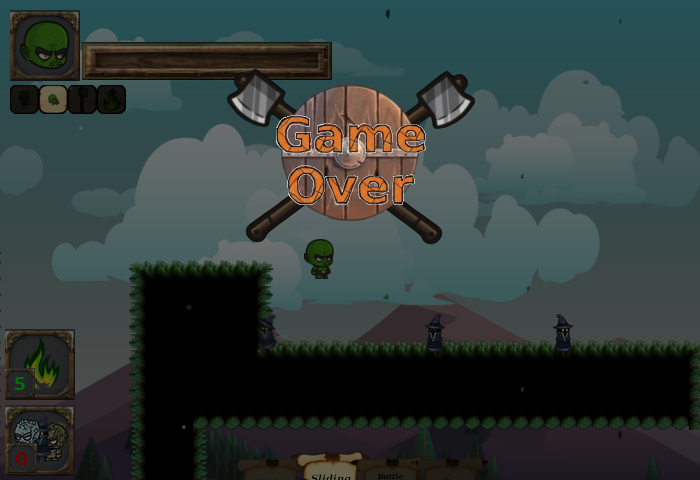
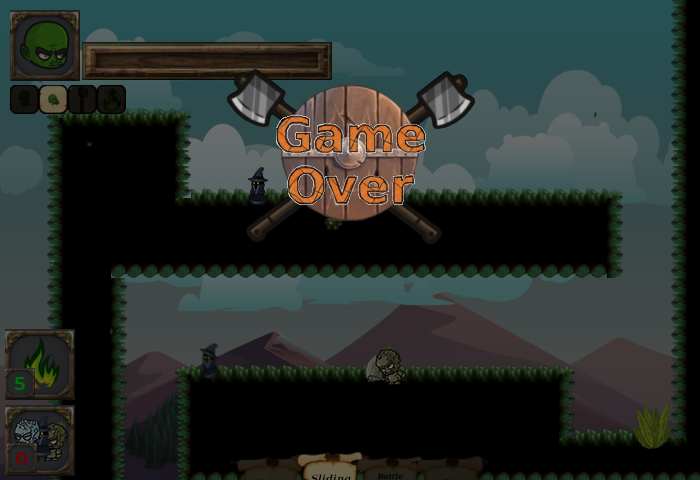
Ajusting the simple Ai.

diff --git a/data/gameplay/__init__.py b/data/gameplay/__init__.py
@@ -68,7 +68,7 @@ class GamePlay(object):
         tile_rects = self.platform.settingPlataform(self.scroll)
         self.scroll, self.player_rect,self.fireArray, self.enimyCollision, self.enimyType, self.fireEnimyColision, self.fireCollsionPos, self.playerOnAttack = self.player.settingPlayer(tile_rects, self.scroll, self.allEnimysRectsAndTypes, self.inUse)
         
-        if ((self.playerOnAttack[0])and(self.count >= 10)):
+        if ((self.playerOnAttack[0])and(self.count >= 10)and(self.inUse == "greenfire"  or self.inUse == "bluefire")):
             self.firing = True
             self.count = 0
         else:
@@ -131,23 +131,25 @@ class GamePlay(object):
         return painelState, self.player_rect, self.qtlife, self.enimysKilled, self.greenFire, self.blueFire
     
     def chekingSongs(self):
-        if self.playerOnAttack[0] and self.inUse == "slashing" and self.soundTimer >= 10:
+        if self.playerOnAttack[0] and self.inUse == "slashing" and self.soundTimer >= 20:
+            self.soundTimer = 0
             self.sounds.golemSliding()
-        elif self.playerOnAttack[0] and self.inUse == "battleax" and self.soundTimer >= 10:
+        elif self.playerOnAttack[0] and self.inUse == "battleax" and self.soundTimer >= 20:
+            self.soundTimer = 0
             self.sounds.golemSlach()
         elif self.playerOnAttack[0] and self.inUse == "kicking" and self.soundTimer >= 10:
+            self.soundTimer = 0
             self.sounds.golemKicking()
         elif self.firing:
             self.sounds.golemstartFire()
-            self.firing = False
         elif self.enimyCollision:
             self.sounds.golemHurt()
         elif(self.qtlife <= 40):
             self.sounds.golemTiredOut()
         else:
             self.sounds.envirementOne()
-            # self.sounds.envirementOne()
         self.soundTimer += 1
+
     def controllingThePlayerLife(self):
         if (self.enimyCollision and self.playerOnAttack[0] == False):
             self.headUpDisplay.updatingPlayerLife(self.enimyType)

diff --git a/data/gameplay/enimy/simpleAI/__init__.py b/data/gameplay/enimy/simpleAI/__init__.py
@@ -1,7 +1,7 @@
 import random
 
 class SimpleEnimysAI:
-    def __init__(self, screen, patrolingRadius,attackRadius, position):
+    def __init__(self, patrolingRadius,attackRadius, position):
         # self.allEnimys = ['blue wizard', 'fire golem', 'stone golem', 'ice golem', 'blue robots', 'dark robots', 'gold robots']
         self.patrolRadius = patrolingRadius
         self.attackRadius = attackRadius
@@ -10,10 +10,8 @@ class SimpleEnimysAI:
         self.move_left = False
         self.initialPosition = position
         self.position = position
-        self.direction = 'right'
+        self.direction = random.choice(('right', 'left'))
         self.timer = 0 
-        
-
 
     def activation(self, enimy_rect, player_rect):
         self.enimy_rect = enimy_rect
@@ -29,14 +27,15 @@ class SimpleEnimysAI:
                 self.move_right = False
         elif((self.enimy_rect.x - self.position)<(-1*self.patrolRadius)):
             self.move_left = False
-
-        
         return self.direction, self.move_right, self.move_left, self.attacking
 
     # calculating the proximity
     def calculateProximity(self, player_rect):
         if(((self.enimy_rect.x-player_rect.x)<=self.attackRadius)and((self.enimy_rect.x-player_rect.x)>= -1*self.attackRadius)):
-            self.attacking = True            
+            if player_rect.y in range(self.enimy_rect.y-40, self.enimy_rect.y+50):
+                self.attacking = True  
+            else:
+                self.attacking = False          
         else:
             self.attacking = False 
 
@@ -49,7 +48,6 @@ class SimpleEnimysAI:
                 self.direction = 'right'
                 self.move_left = False
                 self.move_right = True
-
 
     def choisingMove(self):
         rand = random.random()

diff --git a/data/gameplay/enimy/graveler/__init__.py b/data/gameplay/enimy/graveler/__init__.py
@@ -19,7 +19,7 @@ class Graveller:
         self.rect.x = pos[0]
         self.rect.y = pos[1]
         self.initialPosition = pos[0]
-        self.ai = EnimysAI(self.screen, self.patrolRadius,150, self.rect.x)
+        self.ai = EnimysAI( self.patrolRadius,150, self.rect.x)
         self.collision = Colision()
         self.move_right = False
         self.move_left = False

diff --git a/data/gameplay/enimy/wizard/__init__.py b/data/gameplay/enimy/wizard/__init__.py
@@ -16,7 +16,7 @@ class Wizard:
         self.rect.x = pos[0]
         self.rect.y = pos[1]
         self.initialPosition = pos[0]
-        self.ai = EnimysAI(self.screen, self.patrolRadius,200, self.rect.x)
+        self.ai = EnimysAI(self.patrolRadius,200, self.rect.x)
         self.collision = Colision()
         self.state = 'idle'
         self.move_direction = 'right'

diff --git a/data/gameplay/enimy/golens/__init__.py b/data/gameplay/enimy/golens/__init__.py
@@ -21,7 +21,7 @@ class Golens:
         self.rect.x = pos[0]
         self.rect.y = pos[1]
         self.initialPosition = pos[0]
-        self.ai = EnimysAI(self.screen, self.patrolRadius,100, self.rect.x)
+        self.ai = EnimysAI( self.patrolRadius,100, self.rect.x)
         self.collision = Colision()
         self.move_right = False
         self.move_left = False
